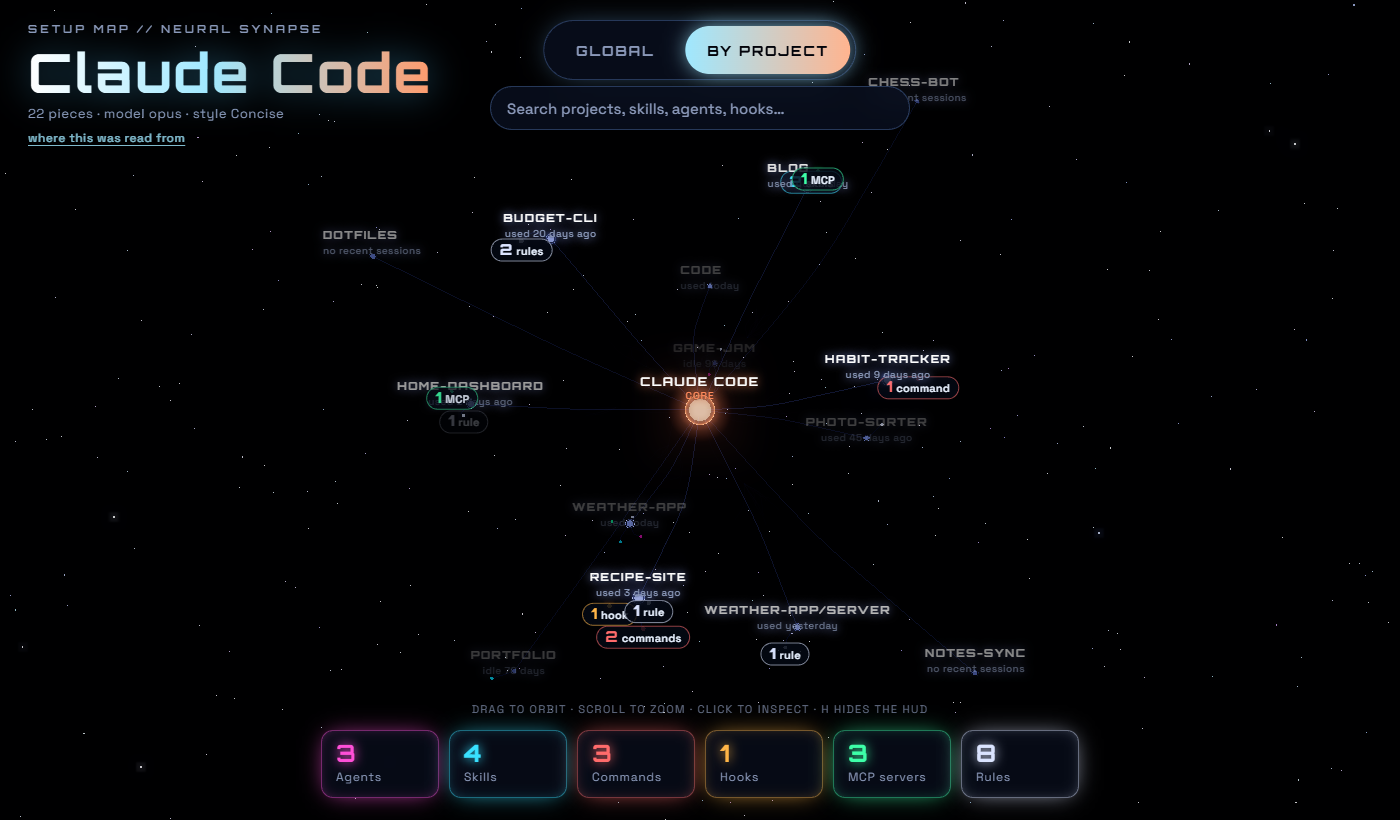
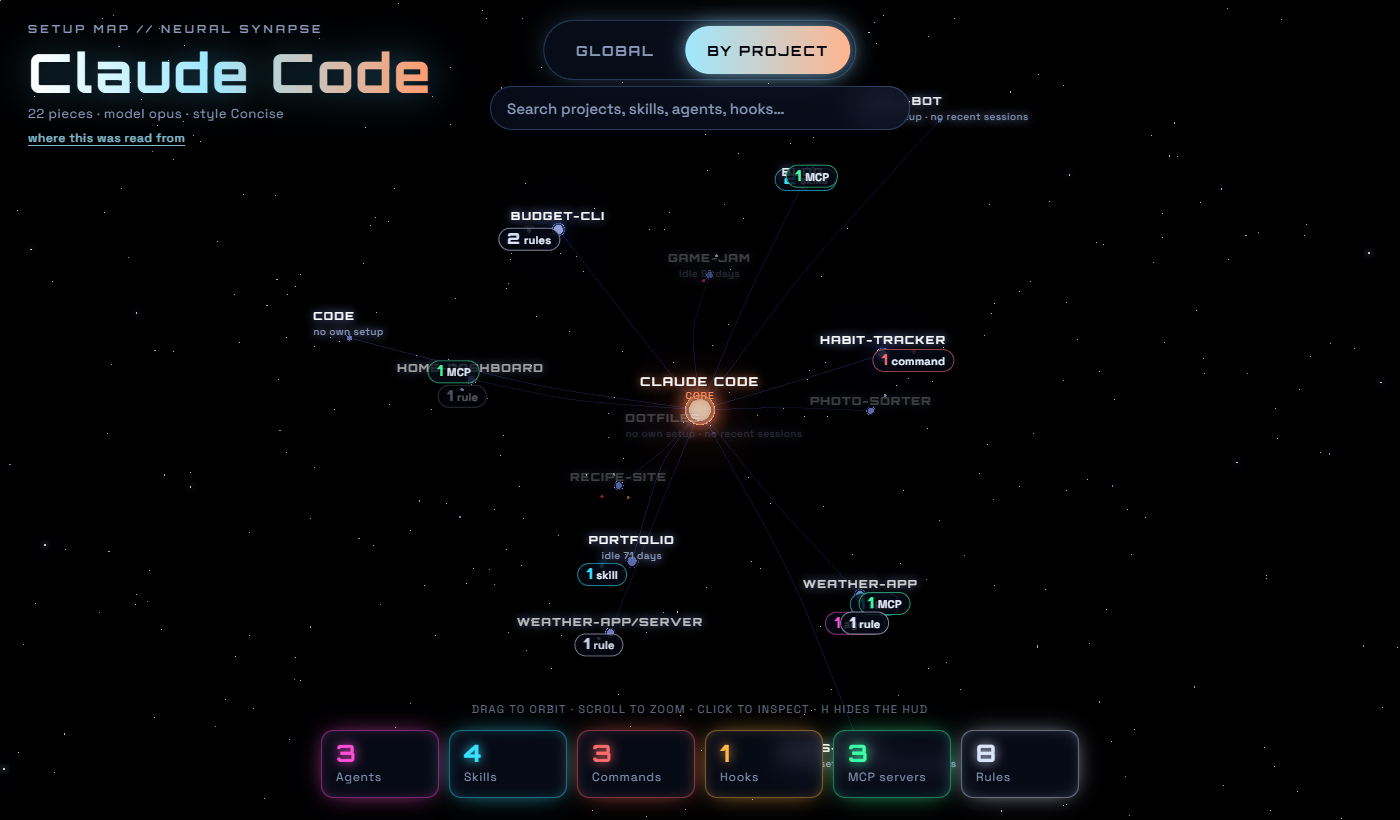
fix(setup-map): match the demo renderer exactly, and make the prompt run the skill's own files
The page template is the demo build again, with idle projects dimmed the demo's way. The
prompt now asks, then downloads the skill's script and template from the repo and runs
them, so it gives the same page as the skill.

diff --git a/setup-map/skill/map.tpl.html b/setup-map/skill/map.tpl.html
@@ -641,35 +641,33 @@ globalKinds.forEach((k, i) => {
 });
 
 // ---- By project view: projects around the core, each labelled with what it has ----
-// Projects used in the last 60 days sit on an inner shell; the rest sit further out, faded.
-// A node grows with how many sessions it has had and glows brighter the more recently it was used.
-const withOwn = projects.filter(p => p.own);
+// Projects with a setup of their own sit on an inner shell; the rest sit further out, dimmed.
+// A project not used for 60 days or more is dimmed the same way and says how long it has been idle.
+const withOwn = projects.filter(p => p.own), without = projects.filter(p => !p.own);
 const STALE = 60;
 const ageDays = p => p.last ? Math.max(0, Math.floor((Date.now() - new Date(p.last + 'T00:00:00')) / 864e5)) : null;
 const isStale = p => ageDays(p) == null || ageDays(p) >= STALE;
 const ageText = p => { const a = ageDays(p); return a == null ? 'no recent sessions' : a === 0 ? 'used today' : a === 1 ? 'used yesterday' : a < STALE ? `used ${a} days ago` : `idle ${a} days`; };
-const recency = p => { const a = ageDays(p); return a == null ? 0.35 : a <= 7 ? 1 : Math.max(0.45, 1 - (a - 7) / (STALE - 7) * 0.55); };
 const sessionsText = p => `${p.sessions || 0} session${p.sessions === 1 ? '' : 's'}`;
-const active = projects.filter(p => !isStale(p)), idle = projects.filter(isStale);
 const ownCount = p => Object.values(p.own || {}).reduce((n, l) => n + l.length, 0);
 const COUNT_ORDER = ['agents', 'skills', 'hooks', 'commands', 'mcp', 'rules'];
 const COUNT_WORD = { agents: 'agent', skills: 'skill', hooks: 'hook', commands: 'command', mcp: 'MCP', rules: 'rule' };
 const SHOW_ZEROS = false;
 const countParts = item => COUNT_ORDER.map(key => [key, (item.own?.[key] || []).length]).filter(([, n]) => SHOW_ZEROS || n)
   .map(([key, n]) => ({ key, n, text: `${n} ${COUNT_WORD[key]}${n === 1 || key === 'mcp' ? '' : 's'}` }));
-// the counts sit under the kind circles, so the project label is its name and when it was last used
+// the counts now sit under the kind circles, so the project label is just its name
 function projectLabel(item, color) {
-  return new CSS2DObject(el('div', { class: 'label3d plabel', style: { '--c': color } }, item.name, el('small', {}, ageText(item))));
+  const sub = [item.own ? null : 'no own setup', isStale(item) ? ageText(item) : null].filter(Boolean).join(' · ');
+  return new CSS2DObject(el('div', { class: 'label3d plabel', style: { '--c': color } }, item.name, sub ? el('small', {}, sub) : null));
 }
-[[active, 56], [idle, 84]].forEach(([list, R]) => list.forEach((item, i) => {
+[[withOwn, 56], [without, 84]].forEach(([list, R]) => list.forEach((item, i) => {
   const dir = fib(i, list.length);
   dir.y *= 1.35; // taller shell than the global one, so labels stack less
   const pos = dir.normalize().clone().multiplyScalar(R);
   const outside = !!item.outside;
-  const color = new THREE.Color(outside ? '#8fa6ff' : PROJECTS_KIND.color).lerp(new THREE.Color('#ffffff'), 0.25)
-    .multiplyScalar(0.4 + 0.6 * recency(item));
-  const size = 0.42 + Math.min(0.45, Math.log10(1 + (item.sessions || 0)) * 0.22) + Math.min(0.25, Math.sqrt(ownCount(item)) * 0.06);
-  const n = hubNode('project', PROJECTS_KIND, pos, color, size, item.name, '', { item, dimmed: isStale(item) });
+  const color = new THREE.Color(outside ? '#8fa6ff' : PROJECTS_KIND.color).lerp(new THREE.Color('#ffffff'), 0.25);
+  const n = hubNode('project', PROJECTS_KIND, pos, color, item.own ? 0.7 + Math.sqrt(ownCount(item)) * 0.12 : 0.42,
+    item.name, '', { item, dimmed: !item.own || isStale(item) });
   // swap the plain label for one carrying the counts
   const plain = n.children.find(c => c.isCSS2DObject);
   const lbl = projectLabel(item, '#' + color.getHexString());
@@ -769,7 +767,7 @@ picker(stage, () => pickables.filter(m => m.visible && m.userData.view === view)
     selected = h;
     controls.autoRotate = false;
     if (h.userData.view === 'project') openProject(h.userData.projectItem || h.userData.item);
-    flyTo(stage, h.getWorldPosition(new THREE.Vector3()), h.userData.isHub && view === 'global' ? 38 : 26, 1500);
+    flyTo(stage, h.getWorldPosition(new THREE.Vector3()), h.userData.isHub ? (view === 'global' ? 38 : 34) : 26, 1500);
   },
 });
 ui.onChip = k => {
@@ -832,7 +830,7 @@ function go(h) {
   selected = h.node;
   ui.hideTip();
   h.open();
-  flyTo(stage, h.node.getWorldPosition(new THREE.Vector3()), h.node.userData.isHub && target === 'global' ? 38 : 26, 1500);
+  flyTo(stage, h.node.getWorldPosition(new THREE.Vector3()), h.node.userData.isHub ? (target === 'global' ? 38 : 34) : 26, 1500);
 }
 input.addEventListener('input', showHits);
 input.addEventListener('focus', showHits);
@@ -886,7 +884,6 @@ renderer.setAnimationLoop(() => {
     if (l.view === 'project' && hub !== hovered && hub !== selected) {
       D.copy(hub.position).applyMatrix4(camera.matrixWorldInverse);
       depth = THREE.MathUtils.clamp(0.25 + 0.75 * (D.z - camZ + 30) / 45, 0.25, 1);
-      if (u.dimmed && !l.near) depth *= 0.55; // a project idle for a long time fades back with its node
     }
     // count labels under the kind circles come in as the camera nears them, so the overview stays readable
     // count labels show on the near half of the sphere at full strength and fade out behind the core,

diff --git a/setup-map/prompt.md b/setup-map/prompt.md
@@ -1,104 +1,53 @@
 # Setup map prompt
 
-The same result as the `setup-map` skill, without installing anything. Copy the block
-below (the copy button is at its top right) and paste it into Claude Code, from any
-folder. It maps your global setup and every project Claude Code has worked in. To add
-projects Claude Code has never been opened in, name their folder on the first line.
+The same result as the `setup-map` skill, without installing it. Copy the block below
+(the copy button is at its top right) and paste it into Claude Code, from any folder.
+
+It downloads the skill's two fixed files from this repo and runs them, so the page is
+exactly the one the skill makes, with your own setup in it. Claude asks you before it
+downloads or runs anything. To add projects Claude Code has never been opened in, name
+their folder on the first line.
 
 ## ⬇ COPY FROM HERE
 
 ```text
 Extra projects folder: none
 
-Draw my whole Claude Code setup as one interactive 3D web page: my global setup, and
-every project Claude Code has worked in on this computer, wherever I run this from.
-Projects come from Claude Code's own records: the session folders under
-`~/.claude/projects/` and the `projects` list in `~/.claude.json`. Use only Python's standard
-library to read the setup, in one script you write to a temporary folder. Read names,
-kinds, the one-line `description` from each file's frontmatter, and counts only. Never
-copy settings values, env, commands, URLs or file bodies into the page. Do not send
-anything anywhere.
+Draw my Claude Code setup map with the setup-map tool from the public repo
+github.com/ZazaGdev/AI-fun. Do not write the page or the script yourself: use the
+repo's fixed files, so the result is exactly the same as the setup-map skill's.
 
-1. **Global setup** (from `~/.claude`, on Windows `%USERPROFILE%\.claude`):
-   - Skills: `skills/*/SKILL.md`, name and description from the frontmatter.
-   - Agents: `agents/*.md`. Commands: `commands/*.md`, shown as `/name`.
-   - Output styles: `output-styles/*.md`; mark the one named by `outputStyle` in
-     `settings.json` as active.
-   - Rules: `CLAUDE.md`, each file it imports with a line starting `@`, and `rules/*.md`.
-   - Memory: one node per project that has a `projects/<slug>/memory/` folder with
-     `*.md` files in it (not counting `MEMORY.md`), named after that project (the one
-     its sessions' `cwd` belongs to, from step 2), with the count of distinct file
-     names. Several folders belonging to the same project make one node. Skip folders
-     with no memory files. Never read the memory files themselves.
-   - Plugins: the enabled ones in `enabledPlugins` of `settings.json`, read at their
-     `installPath` in `plugins/installed_plugins.json`: description from
-     `.claude-plugin/plugin.json`, and the names of their skills, agents and commands.
-   - MCP servers: `mcpServers` keys in `~/.claude.json` (user scope) and under each
-     entry of its `projects` (local scope), each project's `.mcp.json`, and each
-     enabled plugin's `.mcp.json`. Names only.
-   - Hooks: from `settings.json`, each plugin's `hooks/hooks.json` and each project's
-     `.claude/settings.json`. Show the script file name the command runs (or "inline
-     <event> hook") and the event. Never show the command itself.
-   - Model: `model` in `settings.json`.
+1. Before downloading anything, tell me what you will fetch and from where, and ask me
+   to confirm. The two files are:
+   - https://raw.githubusercontent.com/ZazaGdev/AI-fun/main/setup-map/skill/scripts/setup_map.py
+     (the Python script: reads my setup, writes one HTML file)
+   - https://raw.githubusercontent.com/ZazaGdev/AI-fun/main/setup-map/skill/map.tpl.html
+     (the page template the script fills in)
+   Say that the script reads ~/.claude, ~/.claude.json and my projects' own .claude
+   folders, takes names, short descriptions and counts only, reads only the working
+   folder path and file dates from session files (never what was said), sends nothing
+   anywhere, and writes ~/setup-map/setup-map.html. Offer to show me the script before
+   running it.
 
-2. **Projects:** every folder Claude Code has worked in.
-   - Each folder under `~/.claude/projects/` holds the session files (`*.jsonl`) of
-     one working folder. Take that folder's real path from the `cwd` field of the first
-     lines of a session file; do not decode the folder name. Count the session files,
-     and take the newest file's modified time as the date it was last used. Read only
-     `cwd` and file times, never anything that was said in a session.
-   - Add every key of the `projects` list in `~/.claude.json`, and, if an extra
-     projects folder is named above, its subfolders three levels deep that have
-     `.git`, `.claude`, `CLAUDE.md` or `.mcp.json`.
-   - Treat paths that resolve to the same folder as one. Skip folders that no longer
-     exist, the home folder, drive roots, `~/.claude`, anything in the system temp
-     folder, and git worktrees (a `.git` file instead of a `.git` folder).
-   - A folder inside another project's git repo is part of that project, and its
-     sessions count for it, unless it has its own `.claude` folder: then it is a
-     project of its own named `parent/sub`, for example `my-app/server`. A folder
-     that only holds projects and is not a git repo does not swallow them.
-   For each project, its sessions, last-used date and its own setup: `.claude/agents/**/*.md` (with a `name` in frontmatter),
-   `.claude/skills/*/SKILL.md`, `.claude/commands/**/*.md`, hooks in
-   `.claude/settings.json` and `.claude/settings.local.json`, MCP servers from its
-   `.mcp.json` and its `~/.claude.json` entry, `CLAUDE.md`, `.claude/CLAUDE.md` and
-   `.claude/rules/*.md`.
+2. Once I confirm, download both files with Python's standard library (urllib), not by
+   retyping them, into `~/setup-map/tool/`, keeping this layout:
+   - `~/setup-map/tool/scripts/setup_map.py`
+   - `~/setup-map/tool/map.tpl.html`
+   Save them byte for byte. Do not edit either file.
 
-3. **Page.** Write one self-contained file, `~/setup-map/setup-map.html`, with the data
-   above embedded as JSON, then open it in my browser and give me the path. Start it
-   with `<!doctype html>`, `<meta charset="utf-8">` and a viewport meta tag. Load
-   three.js 0.160.0 from `https://cdn.jsdelivr.net/npm/three@0.160.0/` through an
-   import map, with OrbitControls, CSS2DRenderer and UnrealBloomPass. Build all text
-   with DOM calls (`textContent`), never `innerHTML`, so a name cannot inject markup.
-   - Look: near-black space with a faint starfield, soft bloom, slow auto-rotation.
-     A glowing coral core labelled "Claude Code" in the middle.
-   - The page opens on the Global view, and that view must show the global setup
-     from step 1, never only projects.
-   - Global view: one glowing hub per kind (skills, plugins, agents, MCP servers,
-     hooks, commands, output styles, rules, memory), each in its own neon colour,
-     spread evenly around the core and joined to it by a faint curved line. Each item
-     is a small node in a loose cloud past its hub, joined to it by a fainter line.
-     Label each hub with its kind and count.
-   - By project view: every project around the core on a wider shell. A project's
-     node grows with its number of sessions and glows brighter the more recently it was
-     used. Projects used in the last 60 days sit closer; the rest sit further out,
-     faded, but still shown. Under each name: "used today", "used 3 days ago", "idle
-     90 days" or "no recent sessions". Around each project, one small circle per kind
-     of its own setup, in that kind's colour, with its count under it ("2 agents").
-   - Links stay quiet until you point at something: hovering or clicking a node lights
-     its path to the core. One faint dot drifts slowly along each link.
-   - HUD: title and "N pieces, model, style" at top left; a Global / By project toggle
-     and a search box at the top; a row of chips at the bottom, one per kind with its
-     count. Clicking a chip or node flies the camera there and opens a side panel
-     listing the items with their descriptions. A "where this was read from" link
-     lists the folders each kind was read from. Hover shows a small tooltip. Drag to
-     orbit, scroll to zoom, H hides the HUD, Escape closes the panel.
-   - Search finds projects, skills, agents, hooks and the rest, flies to the match and
-     opens its panel.
-   - It must work when opened by double-clicking the file.
+3. If either download fails, stop. Tell me which URL failed and the error, and that I
+   can install the skill instead by copying the repo's `setup-map/skill` folder to
+   `~/.claude/skills/setup-map`. Do not write your own version of the page or script.
 
-4. **Tell me:** the page path, the count of each kind, how many projects there are,
-   how many were used in the last 60 days, how many have a setup of their own, and
-   anything you could not read.
+4. Run it with Python 3:
+   `python ~/setup-map/tool/scripts/setup_map.py --open`
+   If an extra projects folder is named above, pass it first:
+   `python ~/setup-map/tool/scripts/setup_map.py "<folder>" --open`
+   On Windows use `%USERPROFILE%` in place of `~` if needed, and `python3` on macOS or
+   Linux if `python` is not found.
+
+5. Tell me the page path and the lines the script printed: the counts of each kind,
+   how many projects have a setup of their own, and anything not shown.
 
 The page shows my project, skill and memory folder names, so never publish or upload
 it unless I ask.

diff --git a/setup-map/README.md b/setup-map/README.md
@@ -15,10 +15,12 @@ The screenshots come from a made-up sample setup, not a real one.
 
 Two ways to use it:
 
-- [`skill/`](skill/): an installable Claude Code skill. Runs fixed, tested code and
-  gives the same page every time.
+- [`skill/`](skill/): an installable Claude Code skill.
 - [`prompt.md`](prompt.md): a single prompt you paste into Claude Code, no install.
-  Claude writes the code fresh each time, so the page's look can vary.
+  It downloads the skill's two files from this repo and runs them.
+
+Both run the same fixed script and page template, so both give exactly the same page,
+with your own setup in it.
 
 ## What it touches
 
@@ -32,9 +34,12 @@ Two ways to use it:
 - Takes only names, short descriptions (the `description` line at the top of a skill
   or agent file) and counts. It never copies settings values, environment variables,
   hook commands, URLs or the contents of your memory files.
-- Writes one local HTML file, `~/setup-map/setup-map.html`. Nothing else is written.
-- Sends nothing anywhere. When you open the page, it loads three.js from jsDelivr and
-  its fonts from Google Fonts; your setup stays inside the file.
+- Writes one local HTML file, `~/setup-map/setup-map.html`. The prompt also saves the
+  two files it downloads in `~/setup-map/tool/`. Nothing else is written.
+- Sends nothing anywhere. The prompt downloads two files from
+  raw.githubusercontent.com, after asking you. When you open the page, it loads
+  three.js from jsDelivr and its fonts from Google Fonts; your setup stays inside the
+  file.
 
 The page shows your project and skill names, so think before you share it.
 
@@ -91,4 +96,7 @@ switch between Global and By project at the top, and press H to hide the overlay
 ## Or just paste the prompt
 
 Open [`prompt.md`](prompt.md), copy everything between the two markers into Claude
-Code, from any folder. It reads the same things and writes the same kind of page.
+Code, from any folder. Claude says what it will download and from where, and asks
+before it downloads and runs the skill's script and page template from this repo. If
+the download fails, it stops and tells you, rather than making a page of its own. The
+page is the same one the skill makes. Python 3 is the only requirement.
